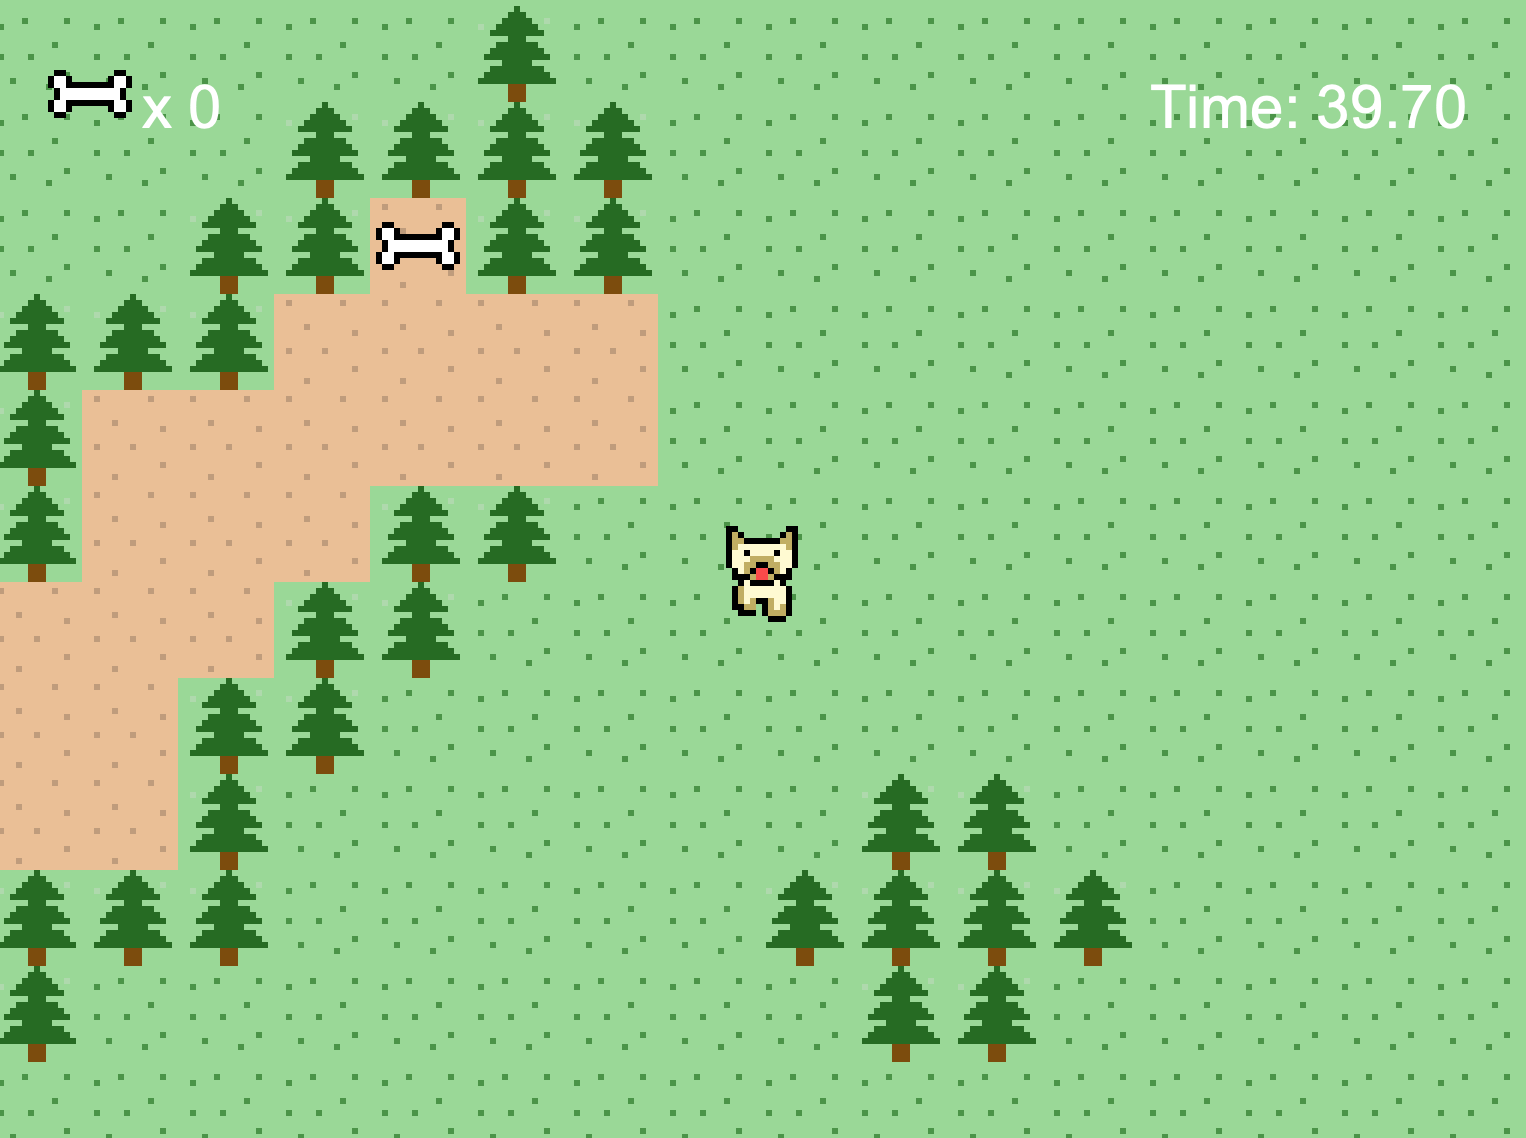
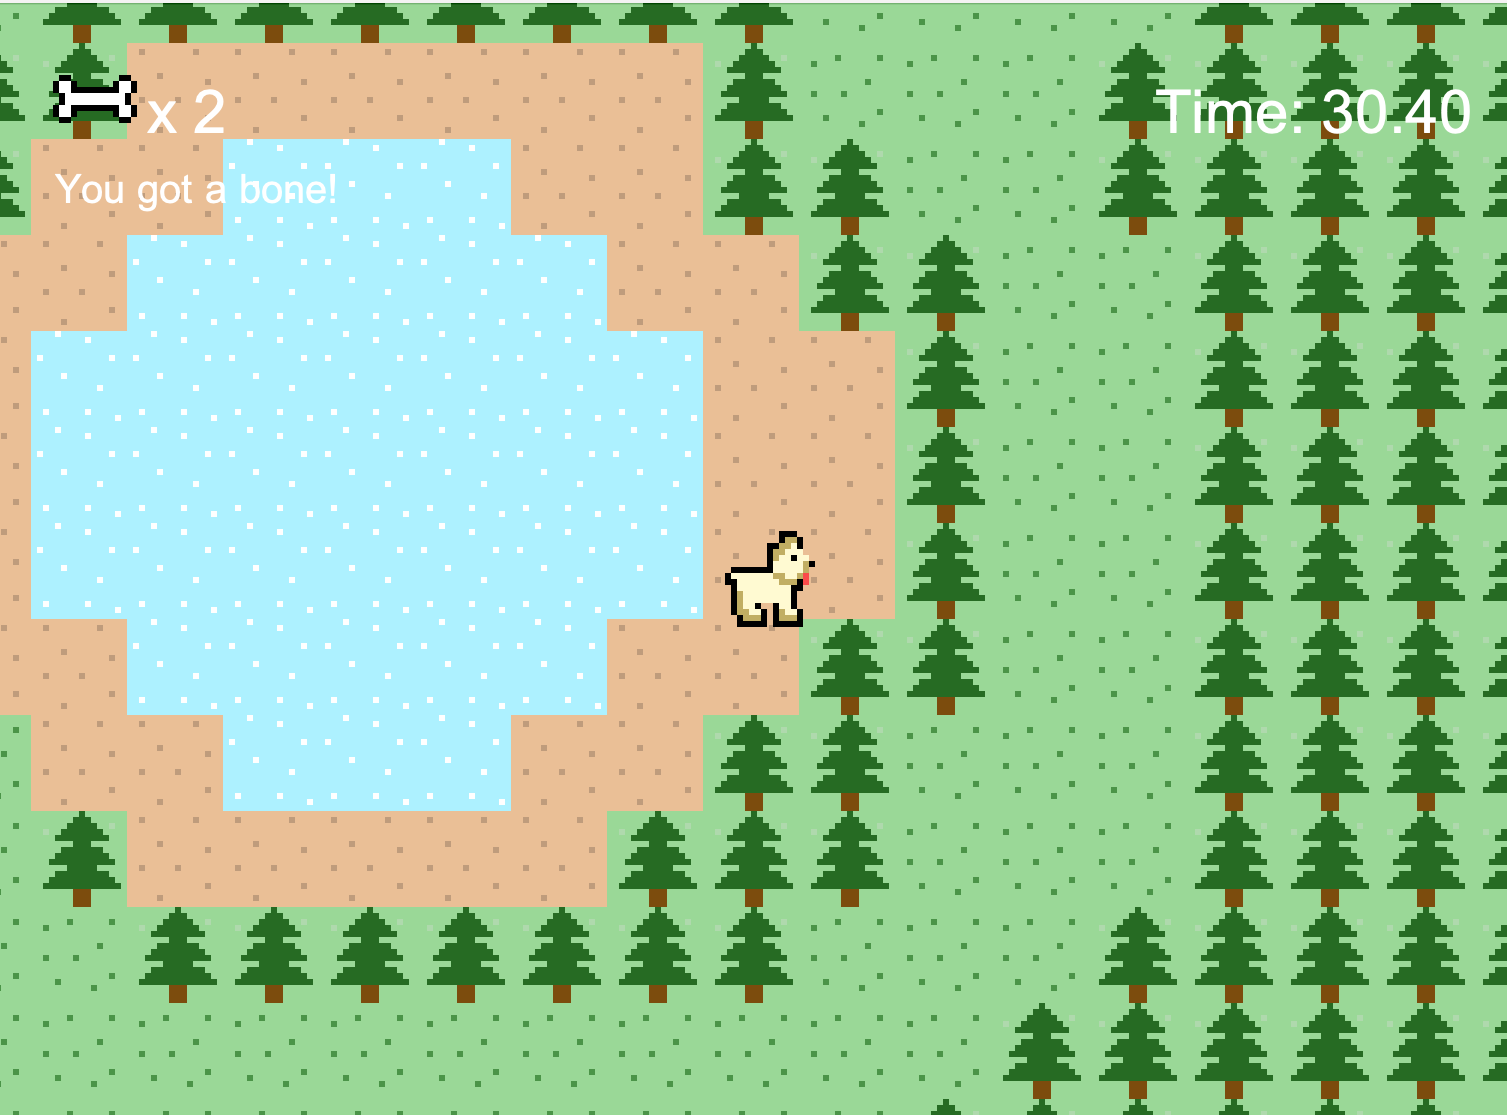
Updated the subpages

diff --git a/subpages/stigmaPodcast.html b/subpages/stigmaPodcast.html
@@ -15,25 +15,44 @@
         <!-- can change fonts as needed -->
         <link rel="stylesheet" href="https://fonts.googleapis.com/css?family=Source+Code+Pro:400,900|Source+Sans+Pro:300,900&display=swap">
 
-        <link rel="stylesheet" href="css/style.css">
+        <link rel="stylesheet" href="../css/style.css">
     </head>
     <body>
         <header>
             <div class="logo">
-                <a href="index.html"><img src="img/gloriagoeun.png" alt=""></a>
+                <a href="../index.html"><img src="../img/gloriagoeun.png" alt=""></a>
             </div>
             <button class="nav-toggle" aria-label="toggle navigation">
                 <span class="hamburger"></span>
             </button>
             <nav class="nav">
                 <ul class="nav__list">
-                    <li class="nav__item"><a href="#home" class="nav__link">Home</a></li>
-                    <li class="nav__item"><a href="#experiences" class="nav__link">Experience</a></li>
-                    <li class="nav__item"><a href="#about" class="nav__link">About Me</a></li>
-                    <li class="nav__item"><a href="#projects" class="nav__link">My Projects</a></li>
+                    <li class="nav__item"><a href="../index.html" class="nav__link">Home</a></li>
+                    <li class="nav__item"><a href="../index.html#experiences" class="nav__link">Experience</a></li>
+                    <li class="nav__item"><a href="../index.html#about" class="nav__link">About Me</a></li>
+                    <li class="nav__item"><a href="../index.html#projects" class="nav__link">My Projects</a></li>
                 </ul>
             </nav>
         </header>
+
+        <!-- Introduction -->
+        <section class="intro">
+            <h1 class="section__title section__title--intro">
+                Deconstructing <br>Stigma <strong> Podcast </strong>
+            </h1>
+            
+            <!--<h2>Python, HTML, Flask, Random Trees, spotipy</h2> -->
+            <p class="section__subtitle section__subtitle--intro"> Listen <a href="https://open.spotify.com/show/5oTbz0ljeNfC10B4apwGOL?si=4680c516339d4bd0" target=”_blank”>here</a></p>
+            <img src="../img/DecStigmaFace.png" alt="" class="intro__img">
+        </section>
+
+        <div class="portfolio-individual-item">
+            <p> As students in the class Psychological Disorders taught by Professor Masland, Aiste Abeciunaite (PO '25), JoJo Widi (PO '23), Laura Furtado Fernandes (PO '25), and I created a podcast that was aimed at deconstructing the stigma surrounding mental health and psychological disorders. We wanted students to understand that they are not alone and that their experiences with a psychological disorder are all so valid by targeting public and self stigma through indirect contact, sharing anecdotes from two professors from Pomona College in a podcast.</p>
+            <img src="../img/DecStigmaBackground.png" alt="">
+            <p>To do so, we first sent out multiple group and individual emails to faculty and staff in the Psychological Science, Cognitive Science, Linguistics, GWS, and Sociology departments. In our email, we informed them of our project goals and asked if they would like to partake in sharing their experiences with mental health. Thankfully, we got two professors from the sociology department (Professor Hernandez-Medina and Professor Thai), who agreed to partake in our project. After creating the scripts and questions, we recorded these interviews at the KSPC Office in Thatcher and edited the audio files on the platform Audacity. Finally, to upload our podcast for the world to hear, we uploaded it on Anchor.fm, which allowed us to disseminate our work online through Spotify. </p>
+            <img src="../img/DecStigmaProcess.png" alt="">
+            <p> Some of the topics we addressed in our interviews were centered on the professors' personal experiences with mental health, such as experiencing severe clinical depression and anxiety, along with the signs, symptoms, and coping strategies they used. We also talked about how these experiences have shaped them to be who they are now as professors at Pomona and how it affected their teaching and interactions with students. Along with these topics, resources available for help were addressed as well as how culture affects attitudes and stigma towards mental health, such as the effects of the model minority myth with Asian Americans. Give our podcast a listen! Yet, please be aware that sensitive topics including depression, anxiety, and suicide are addressed in this podcast. </p>
+        </div>
 
         <!-- footer -->
         <footer class="footer">
@@ -56,6 +75,6 @@
         </footer>
 
 
-        <script src="js/index.js"></script>
+        <script src="../js/index.js"></script>
     </body>
 </html>

diff --git a/subpages/GenRec.html b/subpages/GenRec.html
@@ -47,11 +47,11 @@
         </section>
 
         <div class="portfolio-individual-item">
-            <p>The Spotify GenRec was a final project completed by my friend Kacie Lee (Pomona '24) and me for our class CS181Y: Computer Science for Inquiry at Harvey Mudd College. Using our knowledge of the <b>web framework Flask</b>, the <b>Python library spotipy</b>, and <b>random forests </b>for classification of data, we used the web API from Spotify to create a web engine (home page displayed below) that determines the genre of a playlist the user inputs from Spotify. </p>
+            <p>The Spotify GenRec was a final project completed by my friend Kacie Lee (Pomona '24) and me for our class CS181Y: Computer Science for Inquiry at Harvey Mudd College. Using our knowledge of the <b>web framework Flask</b>, the <b>Python library spotipy</b>, and <b>random forests </b>for classification of data, we used the Web API from Spotify to create a web engine (home page displayed below) that determines the genre of a playlist the user inputs from Spotify. </p>
             <img src="../img/GenRec-screen.jpg" alt="">
-            <p>The idea for this project came up when reflecting on our daily experiences and how a lot of the times when people ask us about our music tastes, it is difficult to exactly pinpoint the genres we like. I used to often say as a respone, "Whatever sounds good to my ear," which is simply so vague! Both of us being avid Spotify users, we also noticed that Spotify does not explicitly categorize the genre of songs or playlists users create on their platform, so we wanted to do so using the data from the recommended public playlists Spotify has for some featured genres on their official account. <a href="https://open.spotify.com/playlist/37i9dQZF1DX70TzPK5buVf?si=e1d3bb3c342e48b4">Here</a> is an example of such a playlist we collected data from.</p>
+            <p>The idea for this project came up when reflecting on our daily experiences and how a lot of the times when people ask us about our music taste, it is difficult to exactly pinpoint the genres we like. I used to often say as a respone, "Whatever sounds good to my ear," which is simply so vague! Both of us being avid Spotify users, we also noticed that Spotify does not explicitly categorize the genre of songs or playlists users create on their accounts, so we wanted to do so using the data from the recommended public playlists Spotify has for some of the featured genres on their official account. <a href="https://open.spotify.com/playlist/37i9dQZF1DX70TzPK5buVf?si=e1d3bb3c342e48b4">Here</a> is an example of such a playlist we collected data from.</p>
             <img src="../img/GenRecCodeSnippet.png" alt="">
-            <p>Using the data from Spotify playlists for the seven genres we considered (gospel, pop, classical, edm, heavy metal, jazz, and funk), our code uses the random forests ML algorithm (as shown in the code snippet above) to classify the genre of each song on a user's playlist and returns the genre that is represented the most as the genre of the playlist, after looking at all of the features provided by Spotify's web API for each song and comparing them to the previously collected data. Due to privacy concerns and authentication with Spotify's web API, we are not sharing our code for this project publically. Yet, the demo of our web engine can be accessed in the link above and the final presentation slides can be viewed <a href="https://docs.google.com/presentation/d/1qbsWw_Nrb4FavrFOzO5HcxUO34TFiSiwfxAGI2JBHfI/edit?usp=sharing">here</a>. The presentation slides details more specifically on the process behind our work, and if interested, please feel free to contact me in the email below with any questions. </p>
+            <p>Using the data from Spotify playlists for the seven genres we considered (gospel, pop, classical, edm, heavy metal, jazz, and funk), our code uses the random forests ML algorithm (as shown in the code snippet above) to classify the genre of each song on a user's playlist and returns the genre that is represented the most as the genre of the playlist, after looking at all of the features provided by Spotify's Web API for each song and comparing them to the previously collected data. Due to privacy concerns and authentication with Spotify's Web API, we are not sharing our code for this project publically. Yet, the demo of our web engine can be accessed in the link above and the final presentation slides can be viewed <a href="https://docs.google.com/presentation/d/1qbsWw_Nrb4FavrFOzO5HcxUO34TFiSiwfxAGI2JBHfI/edit?usp=sharing">here</a>. The presentation slides details more specifically on the process behind our work, and if interested, please feel free to contact me in the email below with any questions! </p>
         </div>
 
         <!-- footer -->

diff --git a/subpages/FindTheBone.html b/subpages/FindTheBone.html
@@ -20,20 +20,39 @@
     <body>
         <header>
             <div class="logo">
-                <a href="index.html"><img src="img/gloriagoeun.png" alt=""></a>
+                <a href="../index.html"><img src="../img/gloriagoeun.png" alt=""></a>
             </div>
             <button class="nav-toggle" aria-label="toggle navigation">
                 <span class="hamburger"></span>
             </button>
             <nav class="nav">
                 <ul class="nav__list">
-                    <li class="nav__item"><a href="#home" class="nav__link">Home</a></li>
-                    <li class="nav__item"><a href="#experiences" class="nav__link">Experience</a></li>
-                    <li class="nav__item"><a href="#about" class="nav__link">About Me</a></li>
-                    <li class="nav__item"><a href="#projects" class="nav__link">My Projects</a></li>
+                    <li class="nav__item"><a href="../index.html" class="nav__link">Home</a></li>
+                    <li class="nav__item"><a href="../index.html#experiences" class="nav__link">Experience</a></li>
+                    <li class="nav__item"><a href="../index.html#about" class="nav__link">About Me</a></li>
+                    <li class="nav__item"><a href="../index.html#projects" class="nav__link">My Projects</a></li>
                 </ul>
             </nav>
         </header>
+
+
+        <!-- Introduction -->
+        <section class="intro">
+            <h1 class="section__title section__title--intro">
+                Find the Bone! <strong> Return Home! </strong>
+            </h1>
+            
+            <!--<h2>Python, HTML, Flask, Random Trees, spotipy</h2> -->
+            <p class="section__subtitle section__subtitle--intro">Access to <a href="https://github.com/gloriagoeun/find-the-bone-game" target=”_blank”>code</a></p>
+            <img src="../img/findTheBone2.png" alt="" class="intro__img">
+        </section>
+
+        <div class="portfolio-individual-item">
+            <p>To showcase my understanding of <b>Java</b> and <b>object-oriented programming</b>, I created this 2D Game informally titled "Find the Bone! Return Home!" from scratch. The goal of this game is for you, as the lovely dog character, to retrieve five bones placed somewhere in the map and then return 'HOME' as fast as you can. Along the way, you may also find different items, such as the up and down arrows, that increase and decrease your speed. The game was written with the help from the tutorial/video series <a href="https://www.youtube.com/watch?v=om59cwR7psI&list=PL_QPQmz5C6WUF-pOQDsbsKbaBZqXj4qSq" target="_blank">'How to Make a 2D Game in Java'</a> by RyiSnow on YouTube. All of the pixel art and music was created by me using the platforms <a href="piskelapp.com/p/create/sprite" target="_blank">Piskel</a> and <a href="https://beepbox.co/" target="_blank">BeepBox</a>.</p> 
+            <img src="../img/findTheBone.png" alt="">
+            <p>Through this process, I was able to learn a lot more about the mechanisms behind running and designing a game, such as how to best format the game loop and tricks to best optimize and improve rendering performance. This project was a joy to develop and design, so I hope you enjoy walking around my world! Woof woof!</p>
+            <img src="../img/findTheBoneEnd.png" alt="">
+        </div>
 
         <!-- footer -->
         <footer class="footer">

diff --git a/subpages/personalWebsite.html b/subpages/personalWebsite.html
@@ -15,25 +15,43 @@
         <!-- can change fonts as needed -->
         <link rel="stylesheet" href="https://fonts.googleapis.com/css?family=Source+Code+Pro:400,900|Source+Sans+Pro:300,900&display=swap">
 
-        <link rel="stylesheet" href="css/style.css">
+        <link rel="stylesheet" href="../css/style.css">
     </head>
     <body>
         <header>
             <div class="logo">
-                <a href="index.html"><img src="img/gloriagoeun.png" alt=""></a>
+                <a href="../index.html"><img src="../img/gloriagoeun.png" alt=""></a>
             </div>
             <button class="nav-toggle" aria-label="toggle navigation">
                 <span class="hamburger"></span>
             </button>
             <nav class="nav">
                 <ul class="nav__list">
-                    <li class="nav__item"><a href="#home" class="nav__link">Home</a></li>
-                    <li class="nav__item"><a href="#experiences" class="nav__link">Experience</a></li>
-                    <li class="nav__item"><a href="#about" class="nav__link">About Me</a></li>
-                    <li class="nav__item"><a href="#projects" class="nav__link">My Projects</a></li>
+                    <li class="nav__item"><a href="../index.html" class="nav__link">Home</a></li>
+                    <li class="nav__item"><a href="../index.html#experiences" class="nav__link">Experience</a></li>
+                    <li class="nav__item"><a href="../index.html#about" class="nav__link">About Me</a></li>
+                    <li class="nav__item"><a href="../index.html#projects" class="nav__link">My Projects</a></li>
                 </ul>
             </nav>
         </header>
+
+        <!-- Introduction -->
+        <section class="intro">
+            <h1 class="section__title section__title--intro">
+                personal <strong> website </strong>
+            </h1>
+            
+            <!--<h2>Python, HTML, Flask, Random Trees, spotipy</h2> -->
+            <p class="section__subtitle section__subtitle--intro">Access to <a href="https://github.com/gloriagoeun/gloriagoeun.github.io" target=”_blank”>code</a></p>
+            <img src="../img/personal-website.png" alt="" class="intro__img">
+        </section>
+
+        <div class="portfolio-individual-item">
+            <p> After gaining experience in basic web development (mostly front-end) during my time as a research assistant at the CyLab @ CMU, I wanted to create my own website to highlight my work and interests, while also practicing my <b>HTML, CSS, and Javascript skills</b>. </p>
+            <img src="../img/persWebCode1.png" alt="">
+            <p> With the help from the following <a href="https://youtu.be/_xkSvufmjEs" target="_blank">tutorial</a> I was able to code, design, and get my website running in a matter of days through the GitHub Pages environment. Designing websites and improving user experiences online has been a big interest of mine, so this process has been very exciting and a big learning process for me. </p>
+            <p> Please feel free to take your time looking around this site, and check out some of the other projects I have worked on! </p>
+        </div>
 
         <!-- footer -->
         <footer class="footer">
@@ -56,6 +74,6 @@
         </footer>
 
 
-        <script src="js/index.js"></script>
+        <script src="../js/index.js"></script>
     </body>
 </html>

diff --git a/index.html b/index.html
@@ -72,7 +72,7 @@
                 </div> 
             </div> <!--experiences-->
 
-            <a href="https://www.linkedin.com/in/gloria-lee-73474b247" class="btn">LinkedIn</a>
+            <a href="https://www.linkedin.com/in/gloria-lee-73474b247" class="btn" target=”_blank”>LinkedIn</a>
         </section>
 
         <!-- About Me-->
@@ -124,17 +124,14 @@
             <!-- email -->
             <a href="mailto:ggla2020@mymail.pomona.edu" class="footer__link">ggla2020@mymail.pomona.edu</a>
             <ul class="social-list">
-                <li class="social-list__item"><a class="social-list__link" href="https://github.com/gloriagoeun/">
+                <li class="social-list__item"><a class="social-list__link" href="https://github.com/gloriagoeun/" target=”_blank”>
                     <i class="fab fa-github"></i> 
                 </a></li>
-                <li class="social-list__item"><a class="social-list__link" href="https://www.google.com">
+                <li class="social-list__item"><a class="social-list__link" href="https://www.linkedin.com/in/gloria-lee-73474b247" target=”_blank”>
                     <i class="fab fa-linkedin"></i>
                 </a></li>
-                <li class="social-list__item"><a class="social-list__link" href="https://www.youtube.com/channel/UCplDXZv3LZx6sJpFzhDs-Fw">
+                <li class="social-list__item"><a class="social-list__link" href="https://www.youtube.com/channel/UCplDXZv3LZx6sJpFzhDs-Fw" target=”_blank”>
                     <i class="fab fa-youtube"></i>
-                </a></li>
-                <li class="social-list__item"><a class="social-list__link" href="https://www.instagram.com/gllorialee/">
-                    <i class="fab fa-instagram"></i>
                 </a></li>
             </ul>
         </footer>
